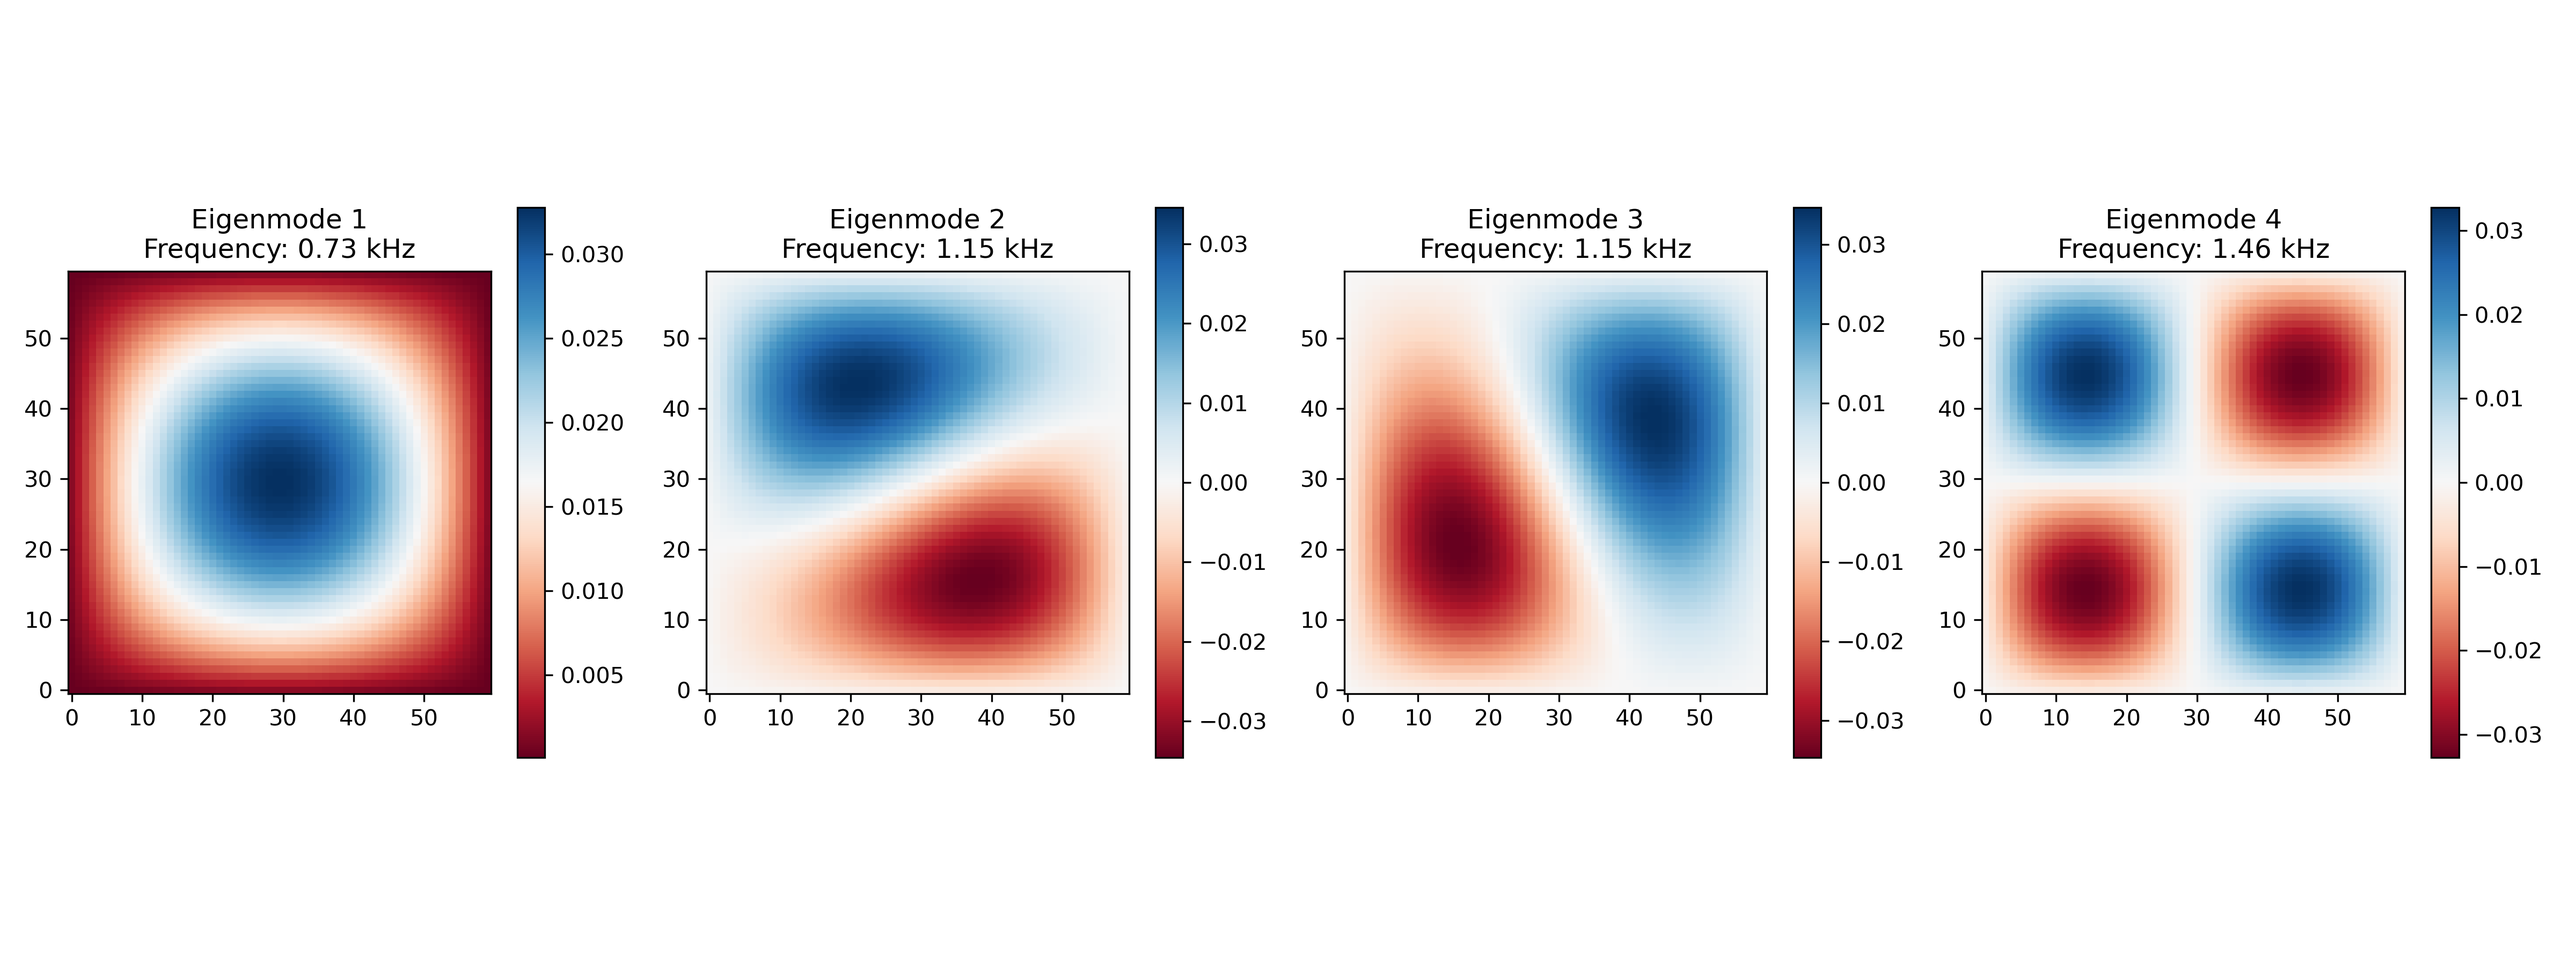
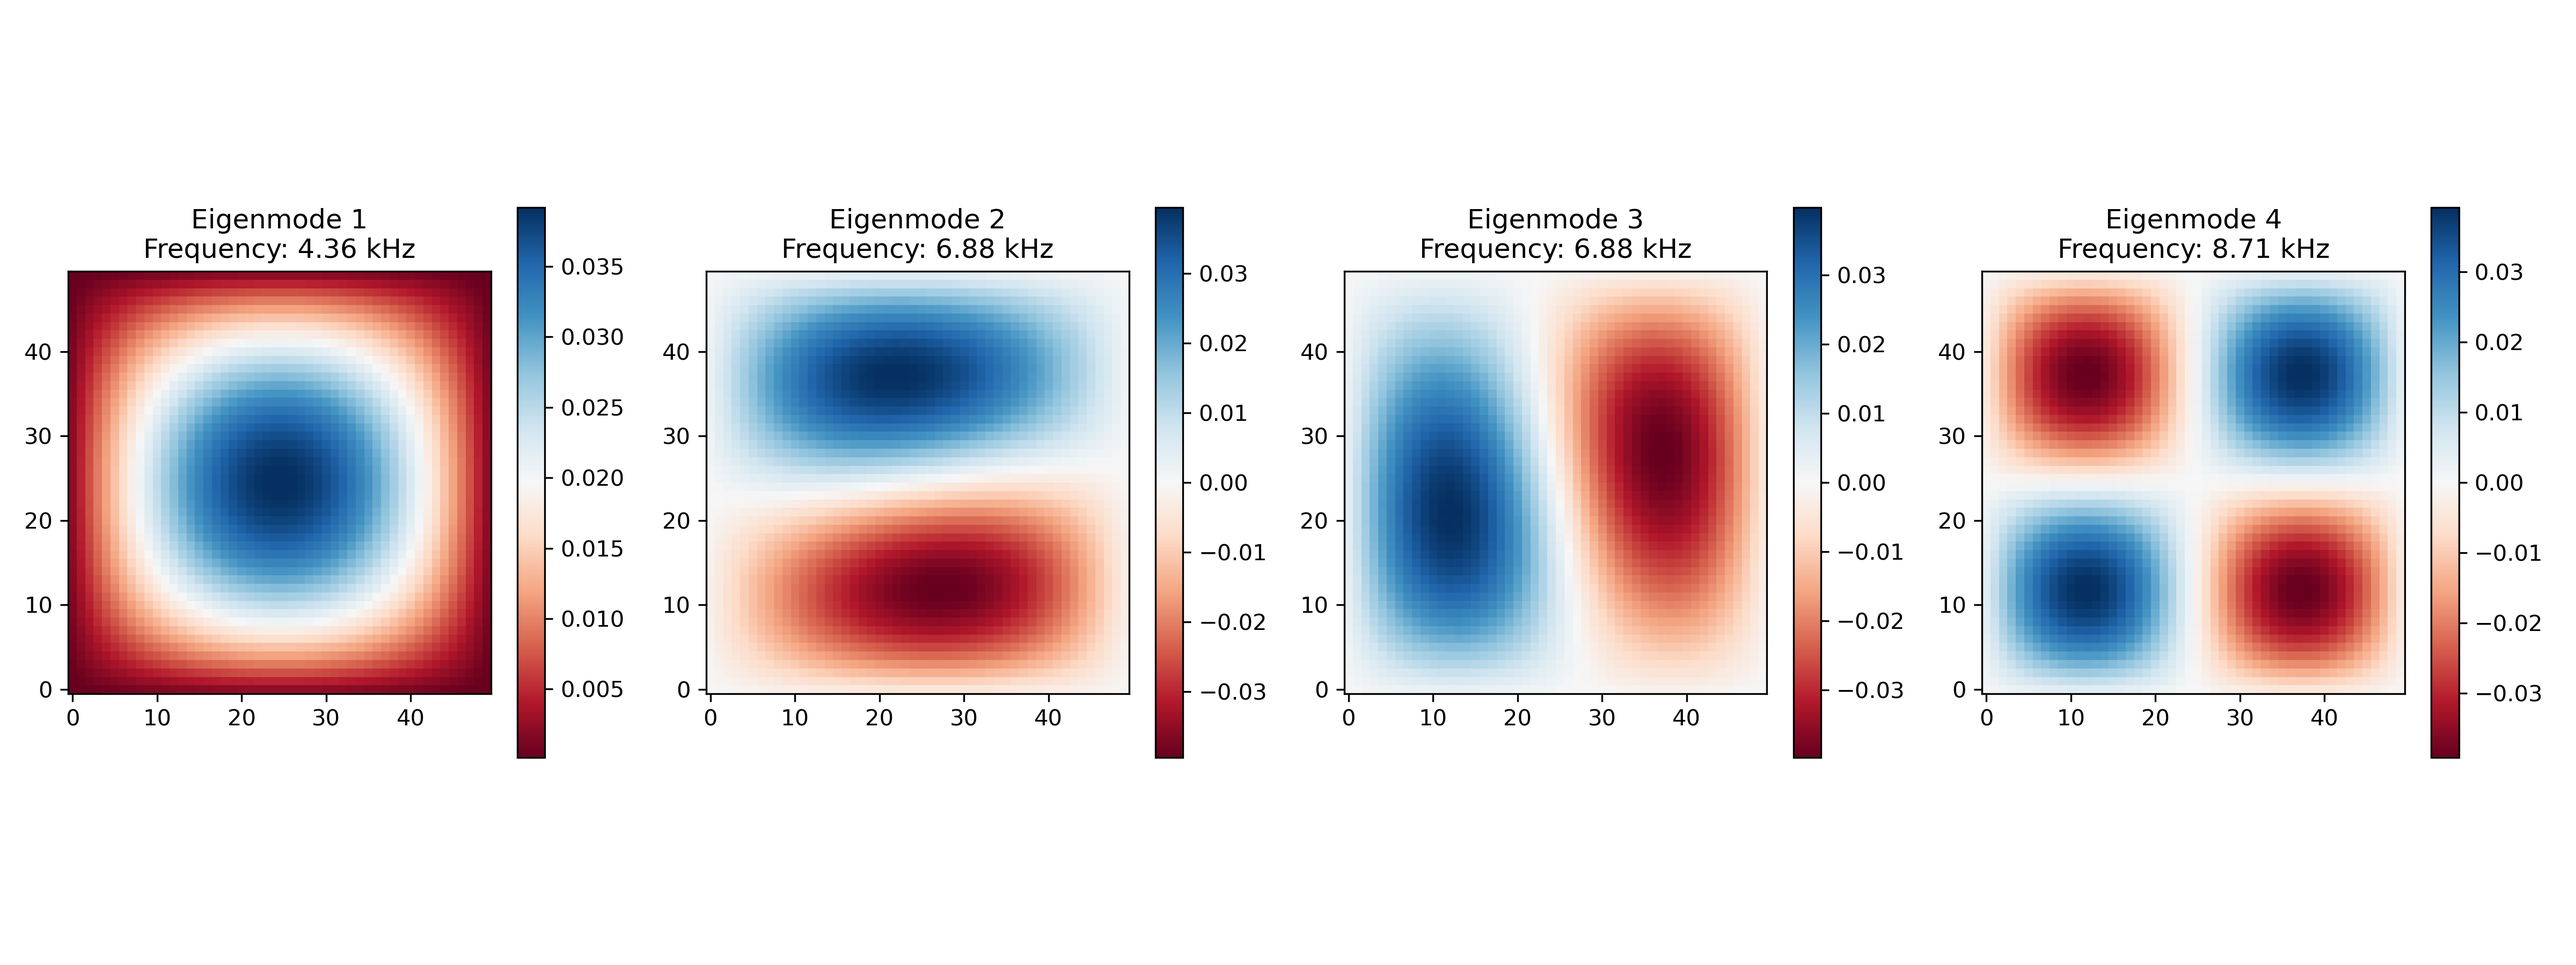
Update so that h^2 doesn't stay small

diff --git a/src/eigen_solver.py b/src/eigen_solver.py
@@ -25,7 +25,7 @@ def _get_frequency(eigenvalues: np.ndarray) -> np.ndarray:
     --------
     - frequencies (np.ndarray): frequencies of the eigenvalues
     """
-    frequencies = np.sqrt(-eigenvalues.real)
+    frequencies = np.sqrt(-eigenvalues)
     return frequencies
 
 
@@ -62,16 +62,18 @@ def solve_eigenvalues(
     )
 
     if model == "None":
+        print(f"Solving the eigenvalues using regular solver for matrix")
         eigenvalues, eigenvectors = (
             la.eig(matrix)
             if isinstance(matrix, np.ndarray)
             else spla.eigs(matrix, k=num_eigen, which=side)
         )
     elif model == "h":
+        print(f"Solving the eigenvalue using hermitian solver")
         eigenvalues, eigenvectors = (
             la.eigh(matrix)
             if isinstance(matrix, np.ndarray)
-            else spla.eigsh(matrix, k=num_eigen, which=side)
+            else spla.eigsh(matrix, k=6, which='SM')
         )
     else:
         raise ValueError("Invalid model. Choose from 'None' or 'h'")
@@ -86,6 +88,7 @@ def solve_eigenvalues(
     print(time_output)
 
     idx = np.argsort(np.abs(eigenvalues.real))
+    print(eigenvalues.real)
     eigenfrequencies = _get_frequency(eigenvalues)
     return (eigenfrequencies[idx], eigenvectors[:, idx])
 
@@ -149,7 +152,7 @@ def normalize_eigenmodus(eigenmodus: np.ndarray) -> np.ndarray:
     return eigenmodus
 
 
-def time_dependent_solution(c, eigenmode, frequency, t):
+def time_dependent_solution(c, frequency, t, A=1, B=1):
     """
     Calculate the time-dependent solution of the wave equation
 
@@ -159,9 +162,11 @@ def time_dependent_solution(c, eigenmode, frequency, t):
     - eigenmode (np.ndarray): eigenmode of the matrix
     - frequency (float): frequency of the eigenmode
     - t (float): time
+    - A (int): amplitude of the cosine. Default is 1
+    - B (int): amplitude of the sine. Default is 1
 
     Returns
     --------
     - T (np.ndarray): time-dependent solution of the wave equation
     """
-    return eigenmode * (np.cos(c * frequency * t) + np.sin(c * frequency * t))
+    return A * np.cos(c * frequency * t) + B * np.sin(c * frequency * t)

diff --git a/main.py b/main.py
@@ -1,5 +1,6 @@
 import numpy as np
 
+from script.create_plot import plot_eigenmode_animation, plot_multiple_eigenmodes
 from src.config import *
 from src.eigen_solver import solve_eigenvalues
 from src.grid_discretization import (
@@ -7,34 +8,40 @@ from src.grid_discretization import (
     initialize_tridiagonal_matrix,
 )
 
+import matplotlib.pyplot as plt
+
 PRINT = 4
 
 
 def create_grid(L, shape, dx=0.01):
     v = initialize_grid_vector(L, shape=shape)
     m = initialize_tridiagonal_matrix(v, L, sparse=True)
-    m = m * dx**2
+    h = 1/L
+    m /= h**2
     return m
 
 
 def eigenvalues(m):
-    frequencies, eigenvectors = solve_eigenvalues(m, num_eigen=5)
+    frequencies, eigenvectors = solve_eigenvalues(m, num_eigen=6)
     return frequencies[:PRINT], eigenvectors[:, :PRINT]
 
 
 def main():
-    t_list = np.linspace(0, 100, 200)
+    t_list = np.linspace(0, 10, 100)
 
-    shape = "rectangle"
-    L = 60
+    shape = "square"
+    L = 50
     m = create_grid(L, shape)
+    np.savetxt('matrix.txt', m.toarray())
     frequencies, eigenvectors = eigenvalues(m)
 
-    # eigenmode = eigenvectors[:, -1].reshape(L, L).real
-    # frequency = frequencies[-1]
+    EIGENMODE_VALUE = 2
+    eigenmode = eigenvectors[:, EIGENMODE_VALUE].reshape(L, L)
+    frequency = frequencies[EIGENMODE_VALUE]
 
-    # print(frequency, eigenmode)
-    # plot_eigenmode_animation(1.0, eigenmode, frequency, t_list, shape)
+    # plot_multiple_eigenmodes(4, frequencies, eigenvectors, L, shape, save_img=True)
+
+    plot_eigenmode_animation(1.0, eigenmode, frequency, t_list, shape)
 
 
 if __name__ == "__main__":

diff --git a/script/create_plot.py b/script/create_plot.py
@@ -139,17 +139,21 @@ def plot_eigenmode_animation(
     if not os.path.exists(FIG_DIR):
         os.makedirs(FIG_DIR)
 
+    min = -np.max(eigenmode.real)
+    max = np.max(eigenmode.real)
+
     for i, t in enumerate(timepoints):
         plt.figure(figsize=FIG_SIZE, dpi=FIG_DPI)
+        T = time_dependent_solution(c, eigenfrequency, t)
 
-        u = time_dependent_solution(c, eigenmode, eigenfrequency, t)
+        u = eigenmode * T
 
-        plt.imshow(u.real, cmap="RdBu")
+        plt.imshow(u.real, cmap="RdBu", vmin=min, vmax=max)
         plt.colorbar()
         plt.xlabel("x")
         plt.ylabel("y")
         plt.title(
-            f"t = {timepoints[i]:.1f} for frequency {eigenfrequency:.4f} and shape {shape}"
+            f"t = {timepoints[i]:.1f} for frequency {eigenfrequency.real:.4f} and shape {shape}"
         )
         plt.tight_layout()
         plt.savefig(f"{FIG_DIR}frame_{i:03d}.png")
@@ -206,8 +210,7 @@ def plot_multiple_eigenmodes(
             axs[i].set_aspect(1.5)
         fig.colorbar(img, ax=axs[i], shrink=0.4 if shape == "rectangle" else 0.6)
 
-        current_frequency = frequencies[i] * SCALER
-        axs[i].set_title(f"Eigenmode {i + 1}\nFrequency: {current_frequency:.2f} kHz")
+        axs[i].set_title(f"Eigenmode {i + 1}\nFrequency: {frequencies[i].real:.2f} kHz")
 
     plt.tight_layout()
 

diff --git a/src/grid_discretization.py b/src/grid_discretization.py
@@ -122,4 +122,3 @@ if __name__ == "__main__":
     N = 100
     matrix = initialize_tridiagonal_matrix(N)
     vector = initialize_grid_vector(N, 20, 1.0, "circle")
-    print(matrix.shape, vector.shape)
